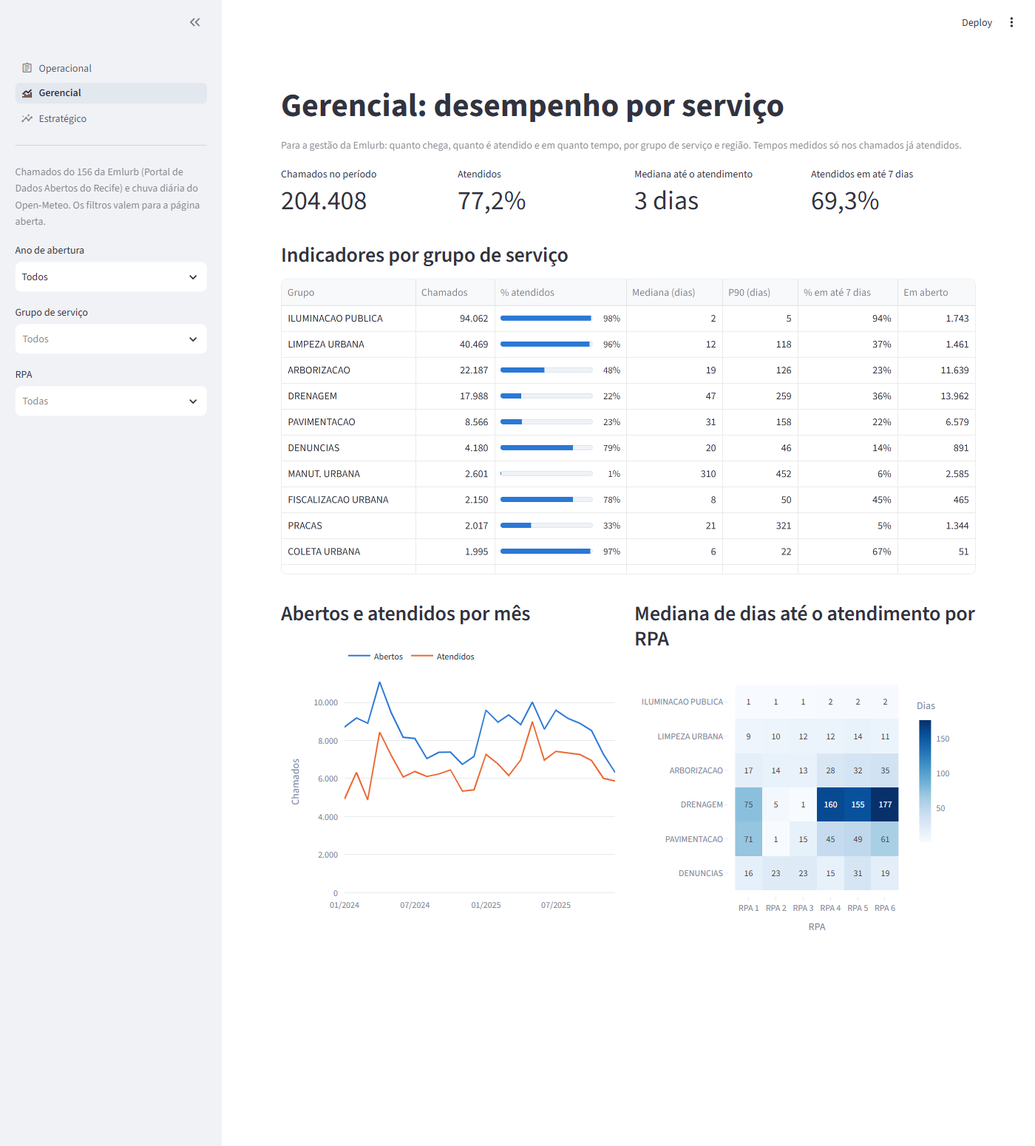
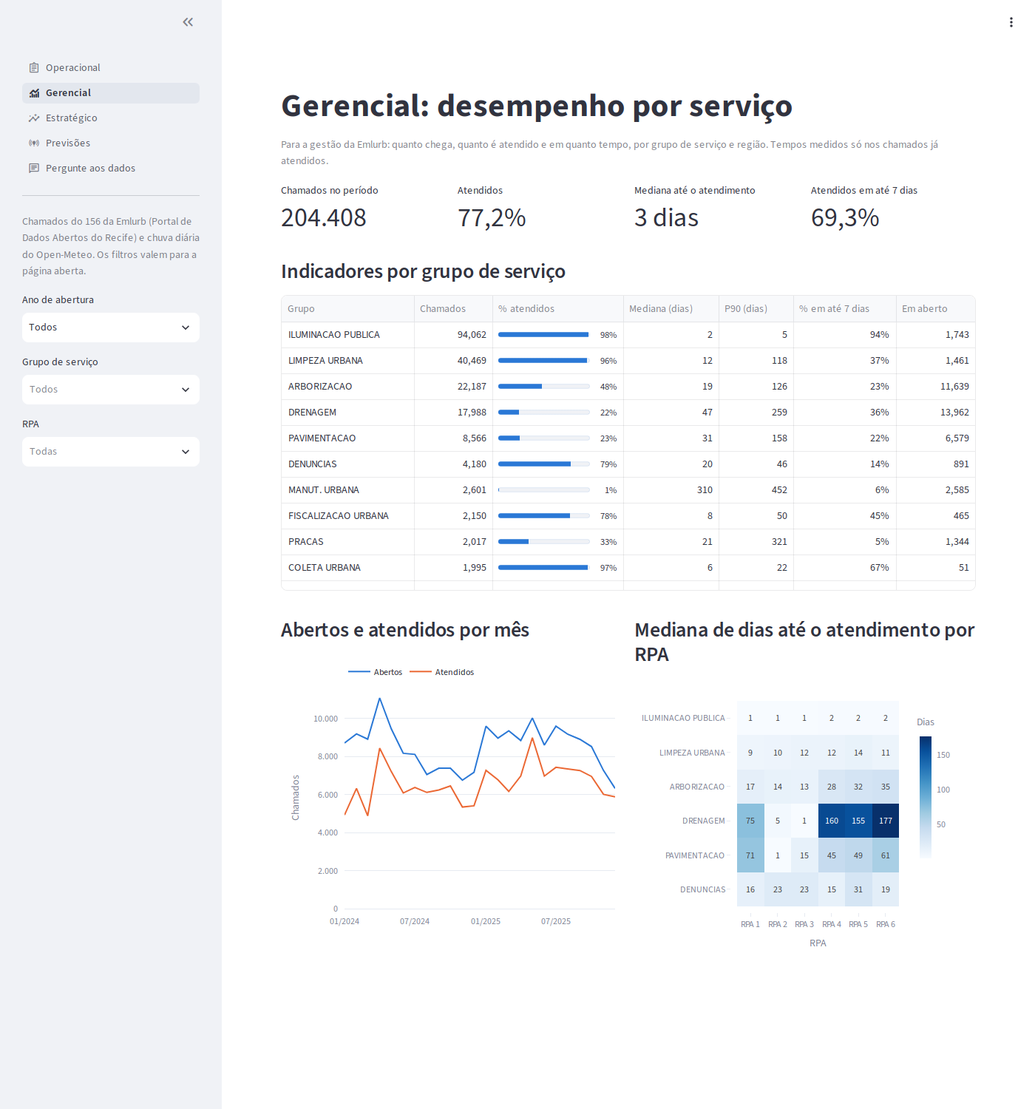
docs: demo GIF, refreshed screenshots and final README review

diff --git a/README.md b/README.md
@@ -2,11 +2,27 @@
 
 [![CI](https://github.com/nogsposito/recife-156/actions/workflows/ci.yml/badge.svg)](https://github.com/nogsposito/recife-156/actions/workflows/ci.yml)
 
-Pipeline de dados ponta a ponta sobre os chamados do 156 da Emlurb, a central em que moradores do Recife pedem conserto de iluminação, limpeza, poda de árvores, drenagem, pavimentação e outros serviços urbanos. O projeto cruza os dados abertos da prefeitura com a chuva diária da cidade, organiza o tratamento em camadas (bronze, silver e gold) com ingestão incremental e validações de qualidade, modela a camada final em esquema estrela no PostgreSQL, responde perguntas de gestão com SQL em notebooks que registram cada descoberta, treina um modelo que prevê na abertura se um chamado será atendido em até 30 dias, usa NLP para unir 14 anos de descrições de serviço e entrega um dashboard com um assistente que responde perguntas em linguagem natural gerando SQL. O dashboard tem uma visão para cada público: quem opera a central, quem gere os serviços e quem decide a estratégia.
+Projeto de dados ponta a ponta sobre os chamados do 156 da Emlurb, a central em que moradores do Recife pedem conserto de iluminação, limpeza, poda de árvores, drenagem e pavimentação. Ele cruza os dados abertos da prefeitura com a chuva diária da cidade, trata tudo em camadas (bronze, silver e gold) com ingestão incremental e validações de qualidade, modela a camada final em esquema estrela no PostgreSQL, guarda o dado bruto no MongoDB, responde perguntas de gestão com SQL em notebooks, treina um modelo que prevê na abertura se um chamado será atendido em até 30 dias, usa NLP para unir 14 anos de descrições de serviço e entrega um dashboard com uma visão para cada público e um assistente que responde perguntas em português gerando SQL.
+
+![Demonstração do dashboard](docs/img/demo.gif)
+
+## Principais achados
+
+Números dos 204.408 chamados abertos em 2024 e 2025. O resumo completo está em [docs/analises.md](docs/analises.md) e o passo a passo nos [notebooks](notebooks).
+
+- Poucos serviços concentram a demanda: 10 de 108 somam 78% dos chamados, e "lâmpada apagada" sozinho é 35,6%.
+- O tipo de serviço define a espera: iluminação tem mediana de 2 dias; drenagem, 47, e 78% dos pedidos de drenagem do período seguiam em aberto no fim de 2025.
+- Em drenagem e arborização, a região também pesa: no mesmo serviço, as RPAs 4 a 6 (oeste, sudoeste e sul) esperam de 155 a 197 dias, contra 35 a 69 nas RPAs 1 a 3.
+- A fila cresce: entre os chamados abertos desde janeiro de 2024, entrou mais do que saiu em todos os 24 meses, cerca de 1.900 por mês.
+- Chuva forte aumenta a demanda, mas não explica a fila: nos dias seguintes a temporais, drenagem fica 13% e arborização 20% acima do normal.
+- Dá para prever quem vai atrasar: o modelo acerta 89% dos alertas de "não será atendido em 30 dias", contra 83% da taxa histórica do serviço.
+- Doze anos de histórico podem ser recuperados: um de-para semiautomático põe no grupo certo descrições antigas que somam mais de 90% dos chamados de 2012 a 2023.
+
+![Mediana de dias até o atendimento por região](docs/img/resolution_by_rpa.png)
 
 ## O problema
 
-A prefeitura recebe mais de 100 mil chamados por ano no 156. Para quem gere esses serviços, as perguntas práticas são: onde está a demanda, quanto tempo cada tipo de pedido leva para ser atendido, se alguma região da cidade espera mais que as outras, quanto da fila está parada há meses e se a chuva, frequente no Recife, antecipa picos de demanda. Os dados públicos permitem responder isso, mas chegam em CSVs anuais com formatos inconsistentes, sem identificador de chamado e com o mesmo pedido repetido em arquivos de anos diferentes.
+A prefeitura recebe mais de 100 mil chamados por ano no 156. Para quem gere esses serviços, as perguntas práticas são onde está a demanda, quanto tempo cada pedido leva, se alguma região espera mais, quanto da fila está parada, se a chuva antecipa picos e quais chamados recém-abertos devem atrasar. Os dados públicos permitem responder isso, mas chegam em CSVs anuais com formatos que mudam, sem identificador de chamado e com o mesmo pedido repetido em arquivos de anos diferentes.
 
 ## Os dados
 
@@ -15,7 +31,7 @@ A prefeitura recebe mais de 100 mil chamados por ano no 156. Para quem gere esse
 | [Central de Atendimento de Serviços da Emlurb (156)](https://dados.recife.pe.gov.br/dataset/central-de-atendimento-de-servicos-da-emlurb-156), Portal de Dados Abertos do Recife | CSV por ano, licença ODbL | API CKAN para descobrir os arquivos, download direto |
 | [Open-Meteo, API histórica](https://open-meteo.com/en/docs/historical-weather-api) | JSON com chuva e temperatura diárias, licença CC BY 4.0 | API REST sem chave |
 
-O recorte padrão cobre os chamados abertos em 2024 e 2025: 204.408 chamados depois da limpeza. Os problemas encontrados nos arquivos (anos que se sobrepõem, mesmo chamado em mais de um arquivo, grafias diferentes, coordenadas inválidas) e a decisão tomada em cada caso estão no notebook [01_data_cleaning.ipynb](notebooks/01_data_cleaning.ipynb); o schema real e as regras de limpeza, em [docs/data_dictionary.md](docs/data_dictionary.md). A chuva vem de um modelo em grade, e não de um pluviômetro: serve para comparar dias entre si, não para medir milímetros (ver o [notebook 03](notebooks/03_weather_hypothesis.ipynb)).
+O recorte padrão é 2024 e 2025. O notebook [01_data_cleaning](notebooks/01_data_cleaning.ipynb) mostra os problemas encontrados nos arquivos brutos e a decisão tomada em cada um: o arquivo de um ano traz chamados de anos anteriores, o mesmo chamado aparece em mais de um arquivo com situações diferentes, as grafias variam, há coordenadas fora do mapa e, até 2023, os códigos de serviço eram outros e os acentos foram apagados na origem. O schema real e as regras de limpeza estão em [docs/data_dictionary.md](docs/data_dictionary.md). A chuva vem de um modelo em grade, não de um pluviômetro: serve para comparar dias entre si, não para medir milímetros.
 
 ## Arquitetura
 
@@ -28,26 +44,25 @@ flowchart LR
     S --> Q{{validações<br/>de qualidade}}
     Q --> G[(gold no PostgreSQL<br/>esquema estrela)]
     Q -.-> O[(ops<br/>execuções e checagens)]
-    G --> N[Notebooks<br/>perguntas de negócio]
-    N --> R[Resumo<br/>docs/analises.md]
+    B --> MG[(MongoDB<br/>documentos brutos)]
+    G --> N[Notebooks]
     G --> M[Modelo<br/>scikit-learn]
-    M --> D[Dashboard<br/>Streamlit]
     G -->|usuário só leitura| AI[Assistente<br/>text-to-SQL]
+    M --> D[Dashboard<br/>Streamlit]
     AI --> D
     G --> D
 ```
 
-1. Ingestão incremental ([src/ingestion](src/ingestion)): consulta a API CKAN e o Open-Meteo, guarda os arquivos originais em `data/raw` e grava cada ano na bronze em Parquet, com colunas de origem. Um manifesto registra a versão e o hash de cada arquivo, e só o que mudou desde a última execução é baixado e regravado.
-2. Silver ([src/layers/silver.py](src/layers/silver.py), [src/transform/cleaning.py](src/transform/cleaning.py)): tipa datas e números, padroniza textos, anula placeholders e coordenadas fora do Recife e mantém só a versão mais recente de cada chamado que aparece em mais de um arquivo anual. As regras nasceram das descobertas do [notebook 01](notebooks/01_data_cleaning.ipynb), que usa as mesmas funções.
-3. Qualidade ([src/quality/checks.py](src/quality/checks.py)): doze validações sobre a silver. Uma falha grave interrompe a execução antes de tocar na gold.
-4. Gold ([sql/schema.sql](sql/schema.sql), [src/transform/modeling.py](src/transform/modeling.py), [src/db/load.py](src/db/load.py)): fato de chamados e dimensões de serviço, bairro e data (com o clima do dia), carregados com `COPY` e indexados em uma única transação.
-5. Análise ([notebooks](notebooks), [sql/analyses](sql/analyses)): cinco perguntas de gestão e o efeito da chuva, respondidos com dez consultas SQL versionadas e três hipóteses testadas. As conclusões ficam em [docs/analises.md](docs/analises.md).
-6. Modelo ([src/ml](src/ml)): prevê, na abertura, a chance de um chamado ser atendido em até 30 dias, com validação temporal contra dois baselines. `make train` treina e salva o modelo.
-7. NLP ([src/nlp](src/nlp)): classifica as descrições de serviço antigas (2012 a 2023) na taxonomia atual e sugere o serviço equivalente, com embeddings de um transformer e um baseline de n-gramas de caracteres. `make nlp` roda tudo.
-8. Assistente ([src/ai](src/ai)): text-to-SQL com a API da Anthropic, com usuário de banco somente leitura e validação de cada consulta.
-9. Dashboard ([app/](app)): cinco páginas em Streamlit e Plotly: uma por público, a de previsões e a do assistente, lendo a gold pela view `v_tickets`.
+1. Ingestão incremental ([src/ingestion](src/ingestion)): baixa os arquivos do portal e o clima, com novas tentativas quando uma API falha, e grava cada ano na bronze em Parquet. Um manifesto registra a versão e o hash de cada arquivo; só o que mudou é baixado e regravado.
+2. Silver ([src/layers](src/layers), [src/transform/cleaning.py](src/transform/cleaning.py)): tipa, padroniza textos, anula placeholders e coordenadas fora do Recife e mantém só a versão mais recente de cada chamado.
+3. Qualidade ([src/quality/checks.py](src/quality/checks.py)): doze validações sobre a silver; uma falha grave interrompe a execução antes de tocar na gold.
+4. Gold ([sql/schema.sql](sql/schema.sql), [src/db/load.py](src/db/load.py)): fato de chamados e dimensões de serviço, bairro e data (com o clima do dia), carregados com `COPY` e indexados em uma transação.
+5. Dado bruto ([src/nosql](src/nosql)): cada linha dos arquivos anuais e cada resposta da API do clima, como chegaram, em documentos no MongoDB.
+6. Análise ([notebooks](notebooks), [sql/analyses](sql/analyses)): perguntas de gestão, efeito da chuva, modelo e NLP, com dez consultas SQL versionadas e quatro hipóteses testadas.
+7. Modelo ([src/ml](src/ml)), NLP ([src/nlp](src/nlp)) e assistente ([src/ai](src/ai)): detalhes nas seções abaixo.
+8. Dashboard ([app](app)): cinco páginas em Streamlit e Plotly.
 
-O detalhe de cada camada, o fluxo de uma execução e o modelo completo estão em [docs/architecture.md](docs/architecture.md). As decisões de arquitetura têm registro próprio: [PostgreSQL](docs/adr/0001-postgresql-como-banco-analitico.md), [camadas](docs/adr/0002-camadas-bronze-silver-gold.md), [Parquet](docs/adr/0003-parquet-para-bronze-e-silver.md) e [carga incremental até a bronze e completa na gold](docs/adr/0004-carga-completa-da-gold.md).
+O fluxo de uma execução, o modelo completo e as camadas estão em [docs/architecture.md](docs/architecture.md); o papel de cada componente, por que foi escolhido e as alternativas, em [docs/explain.md](docs/explain.md); as decisões de arquitetura, nos ADRs sobre [PostgreSQL](docs/adr/0001-postgresql-como-banco-analitico.md), [camadas](docs/adr/0002-camadas-bronze-silver-gold.md), [Parquet](docs/adr/0003-parquet-para-bronze-e-silver.md) e [carga incremental](docs/adr/0004-carga-completa-da-gold.md).
 
 ### Modelo da camada gold
 
@@ -83,21 +98,19 @@ erDiagram
     }
 ```
 
-`is_open` e `days_to_last_update` são colunas geradas pelo próprio PostgreSQL; para chamados atendidos, `days_to_last_update` é o tempo de resolução.
+`is_open` e `days_to_last_update` são colunas geradas pelo PostgreSQL; para chamados atendidos, `days_to_last_update` é o tempo de resolução.
 
-## Qualidade e confiabilidade
+## Engenharia de dados
 
-- Idempotência: rodar o pipeline duas vezes seguidas dá a mesma gold. A segunda execução reconhece pelo manifesto que nada mudou no portal nem no clima e não baixa nada.
-- Incremental: um ano só é baixado de novo quando o portal publica outra versão, e só é regravado na bronze quando o conteúdo também mudou (comparação por hash). Se o portal estiver fora do ar e a bronze já existir, o pipeline segue com ela e registra um aviso.
-- Validações: campos obrigatórios, datas dentro do recorte e coerentes entre si, RPA válida, coordenadas dentro do Recife, um grupo por serviço, um registro de clima por dia e clima para todos os dias com chamado. Situações nunca vistas e bairros faltando acima de 1% geram só alerta.
-- Rastreabilidade: cada execução fica em `ops.pipeline_runs` (o que mudou, quantas linhas, sucesso ou falha) e cada validação em `ops.quality_checks`.
+- Idempotência: rodar o pipeline duas vezes seguidas dá a mesma gold, e a segunda execução não baixa nada.
+- Incremental: um ano só é baixado de novo quando o portal publica outra versão, e só é regravado quando o conteúdo também mudou. Se o portal estiver fora do ar e a bronze já existir, o pipeline segue com ela e registra um aviso.
+- Validações: campos obrigatórios, datas coerentes e dentro do recorte, RPA válida, coordenadas dentro do Recife, um grupo por serviço e clima para todos os dias com chamado.
+- Rastreabilidade: cada execução fica em `ops.pipeline_runs` e cada validação em `ops.quality_checks`.
 - Atomicidade: a gold é recriada em uma única transação; uma falha no meio deixa a versão anterior intacta.
 
-## SQL e otimização
+### SQL e otimização
 
-As consultas em [sql/analyses](sql/analyses) usam CTEs, window functions (participação acumulada, comparação com o mesmo mês do ano anterior via `LAG`, rankings com `RANK ... PARTITION BY`, soma acumulada da fila e média móvel de três meses), percentis e agregações filtradas. As consultas de [sql/benchmark](sql/benchmark) calculam médias móveis de 7 e 28 dias sobre a dimensão de data.
-
-`make benchmark` mede três consultas pesadas com `EXPLAIN ANALYZE`, sem e com os índices de [sql/indexes.sql](sql/indexes.sql), e grava os tempos em [docs/sql_optimization.md](docs/sql_optimization.md):
+As consultas usam CTEs, window functions (participação acumulada, `LAG` contra o mesmo mês do ano anterior, `RANK ... PARTITION BY`, soma acumulada da fila, médias móveis), percentis e agregações filtradas. `make benchmark` mede três consultas pesadas com `EXPLAIN ANALYZE`, sem e com os índices de [sql/indexes.sql](sql/indexes.sql), e grava os tempos em [docs/sql_optimization.md](docs/sql_optimization.md):
 
 | Consulta | Sem índice | Com índice |
 |---|---|---|
@@ -105,15 +118,17 @@ As consultas em [sql/analyses](sql/analyses) usam CTEs, window functions (partic
 | Médias móveis de 7 e 28 dias de um serviço | 33,0 ms | 3,0 ms |
 | Chamados por dia e grupo com a chuva do dia | 345,5 ms | 315,4 ms |
 
-O índice parcial só dos chamados em aberto é o que mais ganha (perto de cem vezes). Na terceira consulta, que precisa contar a tabela inteira, índice não ajuda; o que funcionou foi reescrevê-la para agregar antes de juntar com o calendário, o que a deixou cerca de 2,5 vezes mais rápida com o mesmo resultado.
+O índice parcial só dos chamados em aberto é o que mais ganha. Na terceira consulta, que precisa contar a tabela inteira, índice não ajuda; o que funcionou foi reescrevê-la para agregar antes de juntar com o calendário, cerca de 2,5 vezes mais rápida com o mesmo resultado.
+
+### Dado bruto no MongoDB
+
+O PostgreSQL guarda o dado tratado; o MongoDB guarda o dado como chegou. Cada linha dos arquivos anuais vira um documento com os nomes de coluna e os textos originais, e cada resposta do Open-Meteo é guardada inteira, com metadados e listas diárias aninhadas. Isso permite auditar e investigar a fonte sem esquema fixo, antes de mudar a limpeza, e acompanha a mesma carga incremental da bronze. Três agregações de exemplo, geradas a cada carga em [docs/mongo_results.md](docs/mongo_results.md): o mesmo chamado em dois arquivos anuais e como a situação mudou entre eles, a parcela de linhas com coordenadas por arquivo e a chuva por mês calculada direto do JSON aninhado.
 
 ## Modelo de previsão
 
-Objetivo: saber, no momento em que o chamado é aberto, se ele deve ser atendido em até 30 dias. Isso dá à central um prazo realista para informar ao cidadão e à supervisão uma lista dos chamados que provavelmente vão atrasar.
+Objetivo: saber, quando o chamado é aberto, se ele deve ser atendido em até 30 dias. A central ganha um prazo realista para informar ao cidadão, e a supervisão, uma lista dos chamados que devem atrasar.
 
-Por que classificação e não "quantos dias": 23% dos chamados ainda estão abertos e não têm tempo de resolução. Prever "atendido em até 30 dias, sim ou não" usa esses chamados sem viés (aberto há mais de 30 dias é um "não" conhecido); só ficam de fora os abertos nos últimos 30 dias.
-
-Validação temporal: treino com chamados abertos até 31/05/2025, intervalo de 30 dias e teste com os abertos de 01/07 a 01/12/2025, que o modelo nunca viu. Nada de divisão aleatória.
+O alvo é "atendido em até 30 dias, sim ou não", e não "quantos dias": 23% dos chamados ainda estão abertos e não têm tempo de resolução, e um chamado aberto há mais de 30 dias é um "não" conhecido. A validação é temporal: treino com chamados abertos até 31/05/2025, intervalo de 30 dias, teste com os abertos de 01/07 a 01/12/2025.
 
 | Modelo | AUC | Brier | Precisão do alerta | Recall do alerta |
 |---|---|---|---|---|
@@ -121,13 +136,13 @@ Validação temporal: treino com chamados abertos até 31/05/2025, intervalo de 
 | Histórico do serviço | 0,954 | 0,073 | 83,4% | 86,8% |
 | Gradient boosting (scikit-learn) | 0,960 | 0,067 | 89,2% | 83,6% |
 
-Como interpretar: o tipo de serviço praticamente decide o prazo, então a taxa histórica de cada serviço já é uma régua muito forte. O modelo fica acima dela em todas as métricas de probabilidade, e o alerta "não deve ser atendido em 30 dias" (chance abaixo de 50%) acerta 89% das vezes contra 83% do histórico. O ganho vem quase todo do bairro e aparece onde o prazo é incerto: o erro cai 38% em arborização e 25% em drenagem, e em iluminação e limpeza o modelo empata com o histórico. Chuva, mês e dia da semana mudam o volume de chamados, mas não o prazo de cada um. O raciocínio completo, a calibração e as limitações estão no notebook [04_resolution_model.ipynb](notebooks/04_resolution_model.ipynb), e os números de cada treino em [docs/ml_results.md](docs/ml_results.md).
+O tipo de serviço praticamente decide o prazo, então a taxa histórica de cada serviço já é uma régua muito forte. O modelo fica acima dela em todas as métricas de probabilidade e acerta mais quando alerta um atraso. O ganho vem quase todo do bairro e aparece onde o prazo é incerto: o erro cai 38% em arborização e 25% em drenagem. Detalhes, calibração e limitações no [notebook 04](notebooks/04_resolution_model.ipynb) e em [docs/ml_results.md](docs/ml_results.md).
 
-## IA aplicada: texto e perguntas em linguagem natural
+## IA aplicada
 
 ### NLP: unir 14 anos de descrições de serviço
 
-Os dados não têm texto livre do cidadão; o único texto é a descrição do serviço, escolhida de uma lista que mudou em 2024 (códigos novos, e até 2023 com as letras acentuadas apagadas: "MANUTENO EM LMPADA APAGADA"). Traduzir as descrições antigas para a taxonomia atual permitiria analisar 14 anos em vez de 2. O [notebook 05](notebooks/05_service_text.ipynb) treina com as 94 descrições de 2024 e 2025 e testa em 77 descrições de 2012 a 2023 que não existem hoje:
+Os dados não têm texto livre do cidadão; o único texto é a descrição do serviço, de uma lista que mudou em 2024 e que até 2023 perdia as letras acentuadas ("MANUTENO EM LMPADA APAGADA"). O [notebook 05](notebooks/05_service_text.ipynb) treina com as 94 descrições de 2024 e 2025 e testa em 77 descrições de 2012 a 2023 que não existem hoje:
 
 | Método (texto reparado) | Acurácia | Chamados no grupo certo | F1 macro |
 |---|---|---|---|
@@ -135,19 +150,37 @@ Os dados não têm texto livre do cidadão; o único texto é a descrição do s
 | Embeddings (transformer multilíngue) + regressão logística | 0,597 | 0,907 | 0,447 |
 | Embeddings: serviço atual mais parecido | 0,688 | 0,941 | 0,507 |
 
-O baseline de caracteres ganha do transformer para dizer o grupo: os textos são curtos, abreviados e com grafias quebradas, o que favorece pedaços de palavras. Os embeddings servem para outra coisa, sugerir o serviço atual equivalente, desde que as palavras quebradas sejam antes restauradas a partir do vocabulário atual ("MANUTENO" vira "MANUTENCAO"). Com esse reparo, a descrição de 150 mil chamados passa a encontrar o serviço certo, e as sugestões com similaridade acima de 0,9 acertam o grupo em 100% dos casos (23 descrições, 272 mil chamados). O de-para sugerido está em [docs/service_mapping.csv](docs/service_mapping.csv) e os números de cada execução em [docs/nlp_results.md](docs/nlp_results.md).
+Para dizer o grupo, o baseline de caracteres ganha do transformer: os textos são curtos, abreviados e com grafias quebradas. Os embeddings servem para sugerir o serviço equivalente, desde que as palavras quebradas sejam antes restauradas pelo vocabulário atual ("MANUTENO" vira "MANUTENCAO"); acima de 0,9 de similaridade, todas as sugestões acertam o grupo. O de-para sugerido está em [docs/service_mapping.csv](docs/service_mapping.csv).
 
 ### Assistente "Pergunte aos dados"
 
-Na página do assistente, a pessoa escreve uma pergunta ("quais os 5 bairros com mais chamados de drenagem em aberto?") e o Claude (Opus 5.5, pela API da Anthropic) escreve a SQL, consulta o banco e responde em português. Toda consulta usada aparece abaixo da resposta, com o resultado, para conferir. O modelo recebe no prompt as tabelas e colunas da gold, os grupos e situações existentes e o significado de cada campo, e pode rodar algumas consultas seguidas para corrigir os próprios erros.
+A pessoa escreve uma pergunta ("quais os 5 bairros com mais chamados de drenagem em aberto?") e o Claude (Opus 5.5, pela API da Anthropic) escreve a SQL, consulta o banco e responde em português, mostrando cada consulta usada e o resultado. O modelo recebe no prompt as tabelas e colunas da gold, os valores das categorias e o significado de cada campo, e pode rodar algumas consultas seguidas para corrigir os próprios erros.
 
 A segurança é em camadas, e cada uma funciona mesmo que a anterior falhe:
 
-1. Validação da SQL antes de executar ([src/ai/sql_guard.py](src/ai/sql_guard.py)): um único comando, só `SELECT`, só as tabelas da gold e a view do dashboard, sem funções perigosas e com limite de 200 linhas. Testada em [tests/test_sql_guard.py](tests/test_sql_guard.py).
-2. Usuário de banco `assistant_readonly`, que só tem permissão de leitura nessas tabelas e não enxerga o schema `ops`.
-3. Transação em modo somente leitura e tempo máximo de 10 segundos por consulta.
+1. Validação da SQL antes de executar ([src/ai/sql_guard.py](src/ai/sql_guard.py)): um único comando, só `SELECT`, só as tabelas da gold, sem funções perigosas e com limite de 200 linhas.
+2. Usuário de banco `assistant_readonly`, que só lê essas tabelas e não enxerga o schema `ops`.
+3. Transação somente leitura e tempo máximo de 10 segundos por consulta.
 
-Sem chave de API, a página avisa como habilitar o assistente e continua permitindo rodar uma SQL à mão, com as mesmas proteções. Para habilitar, coloque `ANTHROPIC_API_KEY` no arquivo `.env` e rode `docker compose up`.
+Sem chave de API, a página avisa como habilitar o assistente e continua permitindo rodar uma SQL à mão, com as mesmas proteções. Para habilitar, coloque `ANTHROPIC_API_KEY` no arquivo `.env`.
+
+## Dashboard
+
+Cada página responde às perguntas de um público e tem filtros por grupo de serviço e região quando fazem sentido.
+
+| Página | Para quem | O que mostra |
+|---|---|---|
+| Operacional | Quem coordena a central e as equipes | O que chegou nos últimos dias, tamanho e idade da fila, bairros e serviços com mais pendências |
+| Gerencial | Gestão da Emlurb | Volume, taxa de atendimento e tempos por grupo, abertos e atendidos por mês, tempo por região |
+| Estratégico | Direção | Variação entre anos, sazonalidade ao lado da chuva, efeito da chuva forte por serviço |
+| Previsões | Quem prioriza a fila | Atrasos esperados, chamados recentes com menor chance de atendimento a tempo, simulador e avaliação do modelo |
+| Pergunte aos dados | Qualquer pessoa | O assistente, com a SQL sempre visível |
+
+![Página operacional](docs/img/dashboard_operational.png)
+
+![Página de previsões](docs/img/dashboard_predictions.png)
+
+Mais capturas: [gerencial](docs/img/dashboard_managerial.png), [estratégica](docs/img/dashboard_strategic.png) e [assistente](docs/img/dashboard_assistant.png).
 
 ## Como rodar
 
@@ -159,128 +192,82 @@ cd recife-156
 docker compose up --build
 ```
 
-O Compose sobe o PostgreSQL, roda o pipeline uma vez (ingestão, silver, validações e gold), treina o modelo e, quando tudo termina, abre o dashboard em `http://localhost:8501`. A primeira execução leva alguns minutos (build da imagem e download de cerca de 40 MB); as seguintes, cerca de um minuto, sem novos downloads. O banco fica em `localhost:5433` (usuário, senha e banco em [.env.example](.env.example)).
-
-Os notebooks já estão no repositório com os resultados. Para explorá-los, `make jupyter` abre o JupyterLab em `http://localhost:8888`; para reexecutá-los com o banco carregado, `make notebooks`.
-
-Com `make`:
+O Compose sobe o PostgreSQL e o MongoDB, roda o pipeline (ingestão, silver, validações e gold), treina o modelo, carrega os documentos brutos e abre o dashboard em `http://localhost:8501`. A primeira execução leva alguns minutos (build da imagem e download de cerca de 40 MB de dados); as seguintes, uns dois minutos, sem novos downloads. O PostgreSQL fica em `localhost:5433` e o MongoDB em `localhost:27018` (credenciais em [.env.example](.env.example)).
 
 | Comando | O que faz |
 |---|---|
-| `make pipeline` | Roda tudo: ingestão do que mudou, silver, validações e gold |
+| `make pipeline` | Ingestão do que mudou, silver, validações e gold |
 | `make refresh` | Igual a `pipeline`, mas baixa e reconstrói todas as camadas do zero |
-| `make ingest` | Só traz para a bronze os arquivos novos ou alterados |
-| `make load` | Monta a silver a partir da bronze, valida e carrega a gold |
+| `make ingest` / `make load` | Só a ingestão para a bronze / só silver, validações e gold |
 | `make train` | Treina o modelo de 30 dias e atualiza `docs/ml_results.md` |
-| `make nlp` | Roda o NLP das descrições de serviço (baixa 2012 a 2023 e o modelo de embeddings na primeira vez) |
+| `make mongo` | Carrega os documentos brutos e atualiza `docs/mongo_results.md` |
+| `make nlp` | NLP das descrições de serviço (baixa 2012 a 2023 e o modelo de embeddings na primeira vez) |
 | `make benchmark` | Mede as consultas pesadas com e sem índices |
-| `make dashboard` | Abre o dashboard com os dados já carregados, sem rodar o pipeline |
-| `make notebooks` | Reexecuta os notebooks, atualizando resultados e gráficos |
-| `make jupyter` | Abre o JupyterLab com os notebooks |
+| `make dashboard` | Abre o dashboard com os dados já carregados |
+| `make notebooks` / `make jupyter` | Reexecuta os notebooks / abre o JupyterLab em `http://localhost:8888` |
 | `make test` / `make lint` | Testes (pytest) / estilo e formatação (ruff) |
-| `make psql` | Abre um terminal SQL no banco |
-| `make down` / `make clean` | Para os containers / apaga também o banco e todas as camadas de arquivos |
+| `make psql` | Terminal SQL no banco |
+| `make down` / `make clean` | Para os containers / apaga também os bancos e as camadas de arquivos |
 
-Para mudar o recorte, copie `.env.example` para `.env` e ajuste `YEARS` (por exemplo `YEARS=2024,2025,2026`). Anos anteriores a 2024 usam outra codificação de serviços e são recusados com uma mensagem explicando o motivo.
-
-Todos os comandos rodam dentro de containers, então não é preciso instalar Python. Para rodar fora do Docker, com Python 3.11 ou mais recente: `pip install -e ".[dev,notebooks]"`, suba só o banco com `docker compose up -d db` e use `python -m src.pipeline`.
+Para mudar o recorte, ajuste `YEARS` no `.env` (por exemplo `YEARS=2024,2025,2026`). Anos anteriores a 2024 são recusados com uma mensagem explicando o motivo. Tudo roda em containers; para rodar fora do Docker, com Python 3.11 ou mais recente, use `pip install -e ".[dev,notebooks,nlp]"`.
 
 ## Testes e integração contínua
 
-Os testes em [tests](tests) cobrem as regras de limpeza, a deduplicação entre arquivos anuais, a escolha do arquivo no portal, a ingestão incremental (pular o que não mudou, não regravar conteúdo igual), as validações de qualidade, a montagem do esquema estrela, a leitura do clima as features do modelo (alvo, demanda sem olhar o futuro, divisão temporal), a validação de SQL do assistente, o laço de ferramentas do assistente com um cliente simulado e o reparo e a tradução das descrições de serviço. Nenhum deles precisa de banco, internet ou chave de API.
-
-O workflow [.github/workflows/ci.yml](.github/workflows/ci.yml) roda lint, checagem de formatação e testes em todo pull request e em todo push para `main`.
-
-## Dashboard
-
-Cada página responde às perguntas de um público diferente e tem filtros por grupo de serviço e região quando eles fazem sentido.
-
-Operacional, para quem coordena a central e as equipes: o que chegou nos últimos dias, o tamanho e a idade da fila, os bairros e serviços com mais pendências.
-
-![Página operacional](docs/img/dashboard_operational.png)
-
-Gerencial, para a gestão da Emlurb: volume, taxa de atendimento e tempos por grupo de serviço, evolução mensal de abertos e atendidos e tempo por região.
-
-![Página gerencial](docs/img/dashboard_managerial.png)
-
-Estratégico, para a direção: variação entre anos por grupo, sazonalidade ao lado da chuva e quanto a chuva forte muda cada serviço.
-
-![Página estratégica](docs/img/dashboard_strategic.png)
-
-Previsões, para quem prioriza a fila: atrasos esperados por grupo, os chamados recentes com menor chance de atendimento a tempo, um simulador para um novo chamado e a avaliação do modelo.
-
-![Página de previsões](docs/img/dashboard_predictions.png)
-
-Pergunte aos dados: o assistente descrito acima, com a SQL gerada sempre visível.
-
-## Principais achados
-
-Números do recorte padrão (2024 e 2025). O passo a passo está nos notebooks [02](notebooks/02_business_analysis.ipynb) e [03](notebooks/03_weather_hypothesis.ipynb) e o resumo, em [docs/analises.md](docs/analises.md).
-
-![Chamados por grupo de serviço](docs/img/volume_by_group.png)
-
-A demanda é muito concentrada. Iluminação pública responde por 46% dos chamados, e os 10 serviços mais pedidos, de 108, somam 78% do total. Só "lâmpada apagada" representa 35,6% de tudo o que chega ao 156, o que faz dele o primeiro candidato a manutenção preventiva ou a um canal de pedido automatizado (hipótese H1, confirmada).
-
-A velocidade de atendimento depende muito do tipo de serviço. Iluminação tem mediana de 2 dias, com 94% dos chamados atendidos resolvidos em até uma semana. Drenagem tem mediana de 47 dias entre os atendidos, e 13.962 dos 17.988 chamados de drenagem abertos no período (78%) ainda estavam em aberto no fim de 2025, três quartos deles há mais de 180 dias. E a fila cresce: entre os chamados abertos desde janeiro de 2024, entrou mais do que saiu em todos os 24 meses, cerca de 1.900 por mês.
-
-![Mediana de dias até o atendimento por região](docs/img/resolution_by_rpa.png)
-
-A região da cidade também pesa, mas só em alguns serviços (hipótese H2, refutada em parte). Em iluminação e limpeza urbana, o tempo é parecido em todas as RPAs. Em drenagem, as RPAs 4, 5 e 6 (oeste, sudoeste e sul) têm medianas entre 155 e 177 dias, contra 1 a 5 dias nas RPAs 2 e 3 (norte e noroeste). A diferença continua quando se olha um único serviço: limpeza de galerias leva de 35 a 69 dias nas RPAs 1 a 3 e de 155 a 197 nas RPAs 4 a 6. Isso aponta para capacidade ou contratos regionais, não para o tipo de pedido.
-
-![Chamados abertos por mês](docs/img/monthly_trend.png)
-
-O volume cresceu em 2025, puxado pelo segundo semestre (julho a outubro ficaram de 15% a 30% acima do mesmo mês de 2024). Dias úteis concentram cerca de 90% dos chamados.
-
-![Chuva e chamados de drenagem por mês](docs/img/rain_vs_drainage.png)
-
-A chuva forte aumenta os chamados, mas não explica a fila (hipótese H3, confirmada com efeito moderado). Comparando cada dia com o normal daquele mês e dia da semana, os 75 dias de chuva forte tiveram 13% mais chamados de drenagem e 20% mais de arborização (Mann-Whitney, p < 0,01), enquanto limpeza urbana não subiu. A previsão do tempo é um bom gatilho para reforçar drenagem e poda depois de temporais, mas são poucos chamados a mais por dia: a fila de drenagem vem da velocidade de atendimento, não dos temporais.
+Os 46 testes em [tests](tests) cobrem as regras de limpeza, a deduplicação entre arquivos anuais, a escolha do arquivo no portal, a ingestão incremental, as validações de qualidade, o esquema estrela, o clima, as features do modelo (alvo, demanda sem olhar o futuro, divisão temporal), o NLP, a validação de SQL e o laço do assistente com um cliente simulado, e a conversão para documentos do MongoDB. Nenhum precisa de banco, internet ou chave de API. O workflow [.github/workflows/ci.yml](.github/workflows/ci.yml) roda lint, formatação e testes em todo pull request.
 
 ## Estrutura do repositório
 
 ```
 src/
-  config.py              variáveis de ambiente e caminhos das camadas
   pipeline.py            orquestra ingestão, silver, validações e gold
-  ingestion/             API CKAN e Open-Meteo, com ingestão incremental para a bronze
-  layers/                escrita e leitura de bronze (com manifesto) e silver
-  transform/             regras de limpeza e montagem do esquema estrela
-  quality/checks.py      validações de qualidade da silver
-  db/load.py             carga da gold e registro das execuções
-  benchmark.py           EXPLAIN ANALYZE com e sem índices
+  ingestion/             APIs do portal e do clima, ingestão incremental, novas tentativas
+  layers/                bronze (com manifesto) e silver
+  transform/             limpeza e montagem do esquema estrela
+  quality/               validações de qualidade
+  db/                    carga da gold, usuário somente leitura e registro das execuções
+  nosql/                 documentos brutos e agregações no MongoDB
   ml/                    features, treino com validação temporal e previsão
   nlp/                   descrições de serviço: reparo, embeddings e de-para
   ai/                    assistente text-to-SQL e validação de SQL
-  analysis/              padrão visual dos gráficos e cálculo do efeito da chuva
-  dashboard/             leitura dos dados e estilo do dashboard
-app/                     dashboard Streamlit (navegação e cinco páginas)
-notebooks/               limpeza, análise de negócio, efeito da chuva, modelo e NLP
-sql/
-  schema.sql             esquema estrela e view do dashboard
-  indexes.sql            índices da tabela fato
-  ops.sql                histórico de execuções e validações
-  analyses/              dez consultas analíticas
-  benchmark/             consultas usadas no benchmark de otimização
-tests/                   testes de limpeza, ingestão, qualidade, modelagem, modelo, NLP e assistente
-docs/                    arquitetura, ADRs, otimização, dicionário de dados, resumo e gráficos
-.github/workflows/       integração contínua
+  analysis/, dashboard/  gráficos, efeito da chuva e leitura de dados do dashboard
+  benchmark.py           EXPLAIN ANALYZE com e sem índices
+app/                     dashboard Streamlit
+notebooks/               limpeza, análise de negócio, chuva, modelo e NLP
+sql/                     esquema, índices, permissões, consultas analíticas e de benchmark
+tests/                   testes automatizados
+docs/                    resumo, estudo de caso, arquitetura, ADRs, componentes e resultados
 ```
 
 ## Decisões e limitações
 
-- Sem identificador de chamado nos dados abertos, o mesmo chamado em anos diferentes é reconhecido por serviço, endereço, bairro e data de abertura. A regra é uma aproximação: dois pedidos iguais no mesmo dia e endereço viram dois chamados.
-- A situação de cada chamado é a do fim do último ano carregado. Tempo de resolução só existe para chamados atendidos, então as medianas subestimam a espera em serviços com fila grande, como drenagem.
-- A data de atendimento é a data da última mudança de situação, que depende de como cada equipe registra o andamento.
-- A ingestão é incremental, mas silver e gold são recalculadas por completo a cada execução: sem identificador estável de chamado, uma carga incremental da gold poderia mudar a identidade dos chamados entre execuções. Para cerca de 200 mil linhas isso leva menos de um minuto.
-- Pouco mais da metade das linhas não tem coordenadas, então as análises usam bairro e RPA em vez de pontos no mapa.
-- A chuva vem de um único ponto do modelo em grade do Open-Meteo, que subestima volumes e suaviza temporais. Ela serve para separar dias mais e menos chuvosos; dados de pluviômetro por bairro dariam um teste mais forte.
-- O dashboard mostra a situação na data mais recente dos dados abertos (31/12/2025), não em tempo real.
-- O modelo não conhece capacidade das equipes, contratos ou mutirões, que provavelmente explicam boa parte da diferença entre regiões, e o tempo de atendimento depende de como cada equipe registra o andamento. Ele é retreinado a cada carga para acompanhar mudanças.
-- O NLP trabalha sobre uma lista fechada de descrições, não sobre o relato do cidadão, com treino e teste pequenos (94 e 77 descrições). O de-para sugerido precisa de revisão humana abaixo de 0,9 de similaridade.
-- O assistente depende de uma chave paga da API da Anthropic e pode errar a interpretação de uma pergunta; por isso a SQL sempre aparece. As proteções impedem que ele altere dados, não que ele responda errado.
+- Sem identificador de chamado, o mesmo chamado em anos diferentes é reconhecido por serviço, endereço, bairro e data de abertura, uma aproximação: dois pedidos iguais no mesmo dia e endereço viram dois chamados.
+- A situação de cada chamado é a do fim do último ano carregado, e a data de atendimento é a da última mudança de situação, que depende de como cada equipe registra o andamento. As medianas de tempo subestimam a espera onde a fila é grande.
+- Silver e gold são recalculadas por completo a cada execução: sem identificador estável, uma carga incremental da gold mudaria a identidade dos chamados.
+- Pouco mais da metade das linhas não tem coordenadas, então as análises regionais usam bairro e RPA.
+- A chuva vem de um único ponto de um modelo em grade, que subestima volumes; dados de pluviômetro por bairro dariam um teste mais forte.
+- O dashboard mostra a situação na data mais recente dos dados abertos (31/12/2025), não em tempo real. Não há deploy público, porque o dashboard depende dos bancos; a demonstração está no GIF acima.
+- O modelo não conhece capacidade das equipes, contratos ou mutirões, que provavelmente explicam boa parte da diferença entre regiões.
+- O NLP trabalha sobre uma lista fechada de descrições, com treino e teste pequenos; o de-para precisa de revisão humana abaixo de 0,9 de similaridade.
+- O assistente depende de uma chave paga da API da Anthropic e pode interpretar mal uma pergunta; por isso a SQL sempre aparece. As proteções impedem que ele altere dados, não que responda errado.
+
+## Como usei IA no desenvolvimento
+
+O projeto foi construído com o Claude Code, assistente de programação da Anthropic, trabalhando como par de programação. Eu defini o objetivo, as seis etapas, a stack, o que cada etapa precisava entregar e as regras de trabalho: código em inglês, comentários só onde não é óbvio, nenhum número sem execução real e resultados fracos relatados como fracos. O Claude Code escreveu a maior parte do código, das consultas e dos textos, rodou o pipeline, os testes e os notebooks e trouxe os resultados de cada etapa, que foi entregue como um pull request para revisão.
+
+O que funcionou bem foi exigir verificação em vez de confiança: cada achado foi conferido contra o dado, e cada etapa foi testada do zero com `docker compose up`. Foi assim que apareceram erros que teriam passado despercebidos, como uma regra de duplicatas que descartava 429 chamados por engano, um container do dashboard rodando com uma imagem antiga, palavras quebradas que derrubavam o NLP na descrição mais importante e chamadas de API que travavam a execução. Cada um foi corrigido e registrado.
+
+O que exige cuidado: a IA escreve rápido e com confiança, então os pontos de decisão (escopo, o que conta como resultado bom, quando parar de refinar) ficam com quem conduz o projeto, e os textos de conclusão precisam ser lidos com o mesmo rigor que o código. O assistente text-to-SQL do dashboard segue o mesmo princípio: ele usa um modelo de linguagem, mas sempre mostra a SQL que rodou.
+
+## Documentação
+
+- [Resumo das análises](docs/analises.md) e [estudo de caso](docs/case-study.md)
+- [Arquitetura](docs/architecture.md), [componentes e alternativas](docs/explain.md) e [ADRs](docs/adr)
+- [Dicionário de dados](docs/data_dictionary.md)
+- Resultados gerados: [otimização SQL](docs/sql_optimization.md), [modelo](docs/ml_results.md), [NLP](docs/nlp_results.md) e [MongoDB](docs/mongo_results.md)
 
 ## Tecnologias
 
-Python 3.12, pandas, pyarrow (Parquet), requests, SQLAlchemy e psycopg 3, PostgreSQL 16, Streamlit, Plotly, scikit-learn, SciPy, sentence-transformers (PyTorch), API da Anthropic, sqlglot, Jupyter, matplotlib, pytest, ruff, GitHub Actions, Docker Compose e Make.
+Python 3.12, pandas, pyarrow (Parquet), requests, SQLAlchemy e psycopg 3, PostgreSQL 16, MongoDB 7 e pymongo, Streamlit, Plotly, scikit-learn, SciPy, sentence-transformers (PyTorch), API da Anthropic, sqlglot, Jupyter, matplotlib, pytest, ruff, GitHub Actions, Docker Compose e Make.
 
 ## Licença
 

diff --git a/docs/architecture.md b/docs/architecture.md
@@ -22,6 +22,7 @@ flowchart LR
     W --> L
     L --> B --> S --> Q --> G
     Q -.-> O
+    B --> MG[(MongoDB<br/>documentos brutos)]
     G --> N[Notebooks]
     G --> M[Modelo<br/>src/ml]
     M --> D[Dashboard]
@@ -36,6 +37,7 @@ flowchart LR
 | Bronze | `data/bronze/tickets/year=AAAA`, `data/bronze/weather/year=AAAA` | Parquet | Mesmo conteúdo, sem correções, mais `_source` e `_ingested_at` | `src/ingestion` com `src/layers/bronze.py` |
 | Silver | `data/silver` | Parquet | Chamados limpos e deduplicados, clima tipado | `src/layers/silver.py` |
 | Gold | PostgreSQL, schema `public` | Tabelas | Fato e dimensões, view do dashboard, índices | `src/transform/modeling.py`, `src/db/load.py` |
+| Bruto em documentos | MongoDB, banco `recife156_raw` | Documentos | Cada linha dos arquivos anuais como chegou e cada resposta da API do clima inteira | `src/nosql/raw_store.py` |
 | Ops | PostgreSQL, schema `ops` | Tabelas | Histórico de execuções e de validações | `src/db/load.py` |
 
 ## Uma execução do pipeline
@@ -49,7 +51,7 @@ flowchart LR
 5. Gold: recria o esquema estrela, carrega com `COPY` e cria os índices, tudo em uma transação.
 6. Fecha o registro da execução com sucesso ou falha.
 
-No `docker compose up`, depois do pipeline roda `python -m src.ml.train`: lê a gold, monta as features, treina com validação temporal, salva o modelo em `models/` e atualiza `docs/ml_results.md`. O dashboard carrega esse arquivo na página de previsões.
+No `docker compose up`, depois do pipeline roda `python -m src.ml.train`: lê a gold, monta as features, treina com validação temporal, salva o modelo em `models/` e atualiza `docs/ml_results.md`. O dashboard carrega esse arquivo na página de previsões. Em seguida, `python -m src.nosql.raw_store` carrega os documentos brutos no MongoDB, só para os anos cujo arquivo mudou segundo o manifesto, e atualiza as agregações de `docs/mongo_results.md`.
 
 A carga da gold também cria o usuário `assistant_readonly` e reaplica as permissões dele (só `SELECT` nas tabelas da gold e na view, transação somente leitura, 10 segundos por consulta), já que as tabelas são recriadas a cada execução. O assistente do dashboard conecta com esse usuário e valida cada consulta antes de executá-la.
 
